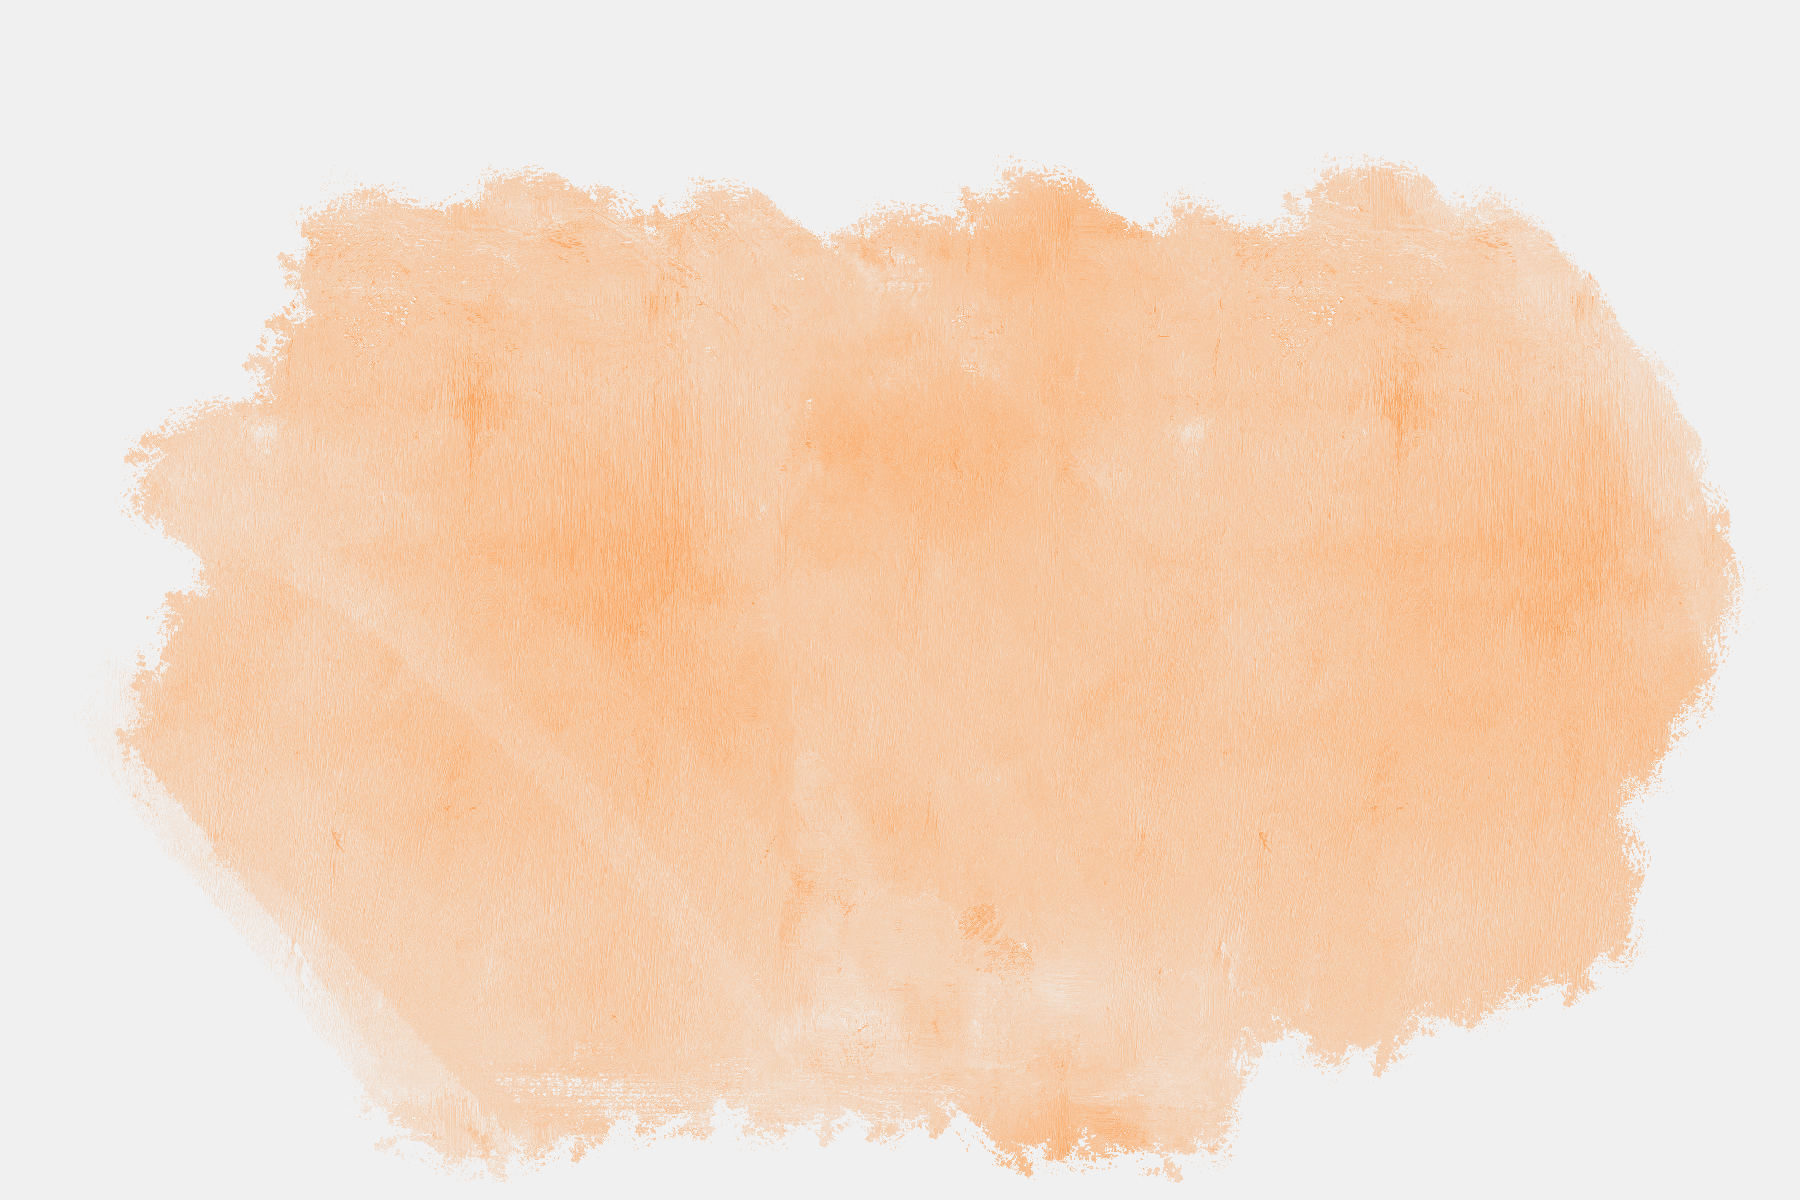
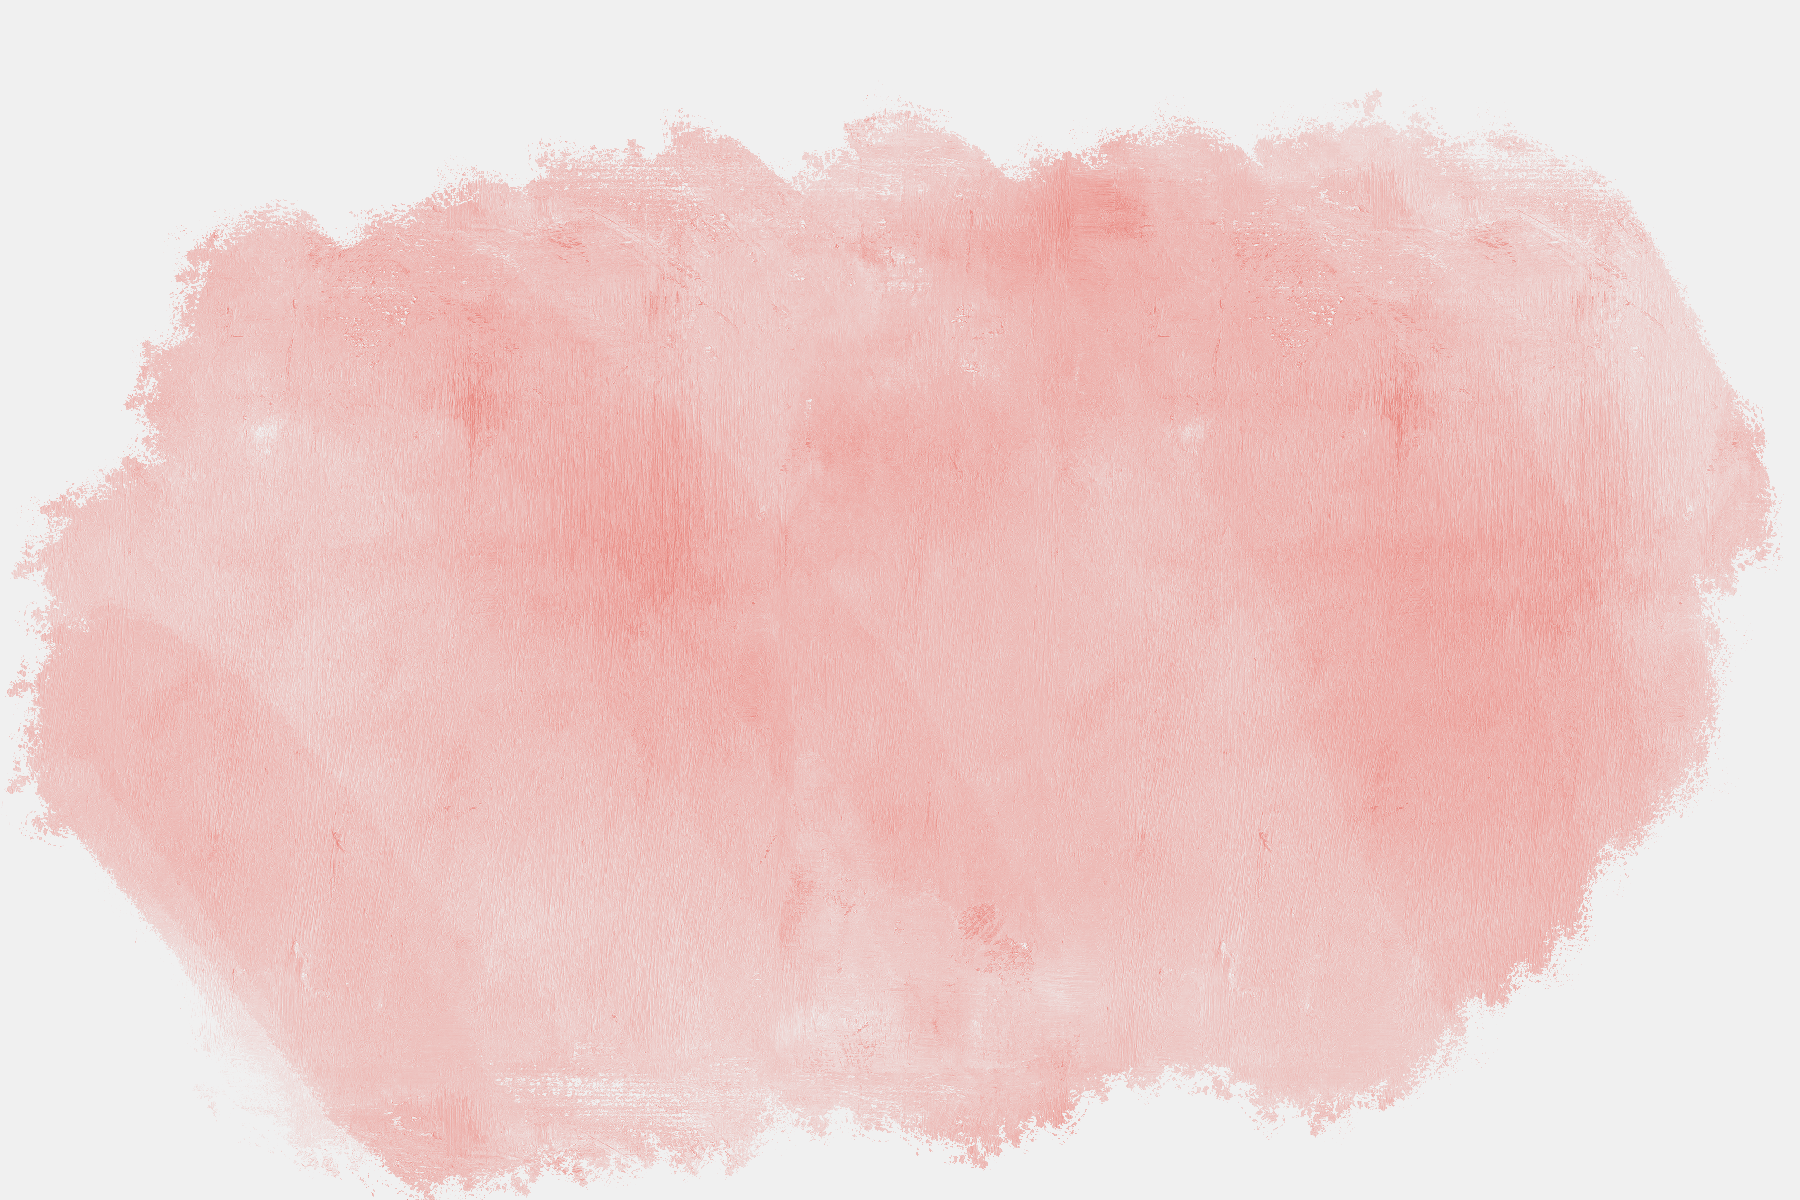
메인의 이미지 관련 버그 개선과 이미지 수정 & 타이틀 폰트 크기 수정

diff --git a/src/components/Wavey.jsx b/src/components/Wavey.jsx
@@ -50,7 +50,7 @@ const WaveShaderMaterial = shaderMaterial(
     void main() {
       float wave = vWave * 0.1;
       vec3 texture = texture2D(uTexture, vUv + wave).rgb;
-      gl_FragColor = vec4(texture, 0.8); 
+      gl_FragColor = vec4(texture, 0.95); 
     }
   `
 );
@@ -61,7 +61,7 @@ const Wave = () => {
   const ref = useRef();
   useFrame(({ clock }) => (ref.current.uTime = clock.getElapsedTime()));
   const [image] = useLoader(THREE.TextureLoader, [
-    "https://images.unsplash.com/photo-1606049543886-a2708d2aa96d?ixlib=rb-1.2.1&ixid=MnwxMjA3fDB8MHxwaG90by1wYWdlfHx8fGVufDB8fHx8&auto=format&fit=crop&w=436&q=80",
+    `http://${window.location.host}/images/wavey.jpg`,
   ]);
 
   return (
@@ -74,7 +74,11 @@ const Wave = () => {
 
 const Scene = ({ className }) => {
   return (
-    <Canvas className={className} camera={{ fov: 5, position: [0, 0, 5] }}>
+    <Canvas
+      linear
+      className={className}
+      camera={{ fov: 5, position: [0, 0, 5] }}
+    >
       <Suspense fallback={null}>
         <Wave />
       </Suspense>

diff --git a/src/styles/Title.scss b/src/styles/Title.scss
@@ -6,7 +6,7 @@
 
   .title-logo {
     width: 4rem;
-    height: 4rem;
+    height: 4.5rem;
   }
 
   .title {
@@ -15,13 +15,14 @@
 
     > * {
       margin: 0;
+      letter-spacing: 0.05rem;
     }
 
     :first-child {
-      font-size: $primary-sub-title-font-size;
+      font-size: 1.5rem;
     }
     :last-child {
-      font-size: $primary-content-font-size;
+      font-size: 1.4rem;
     }
   }
 
